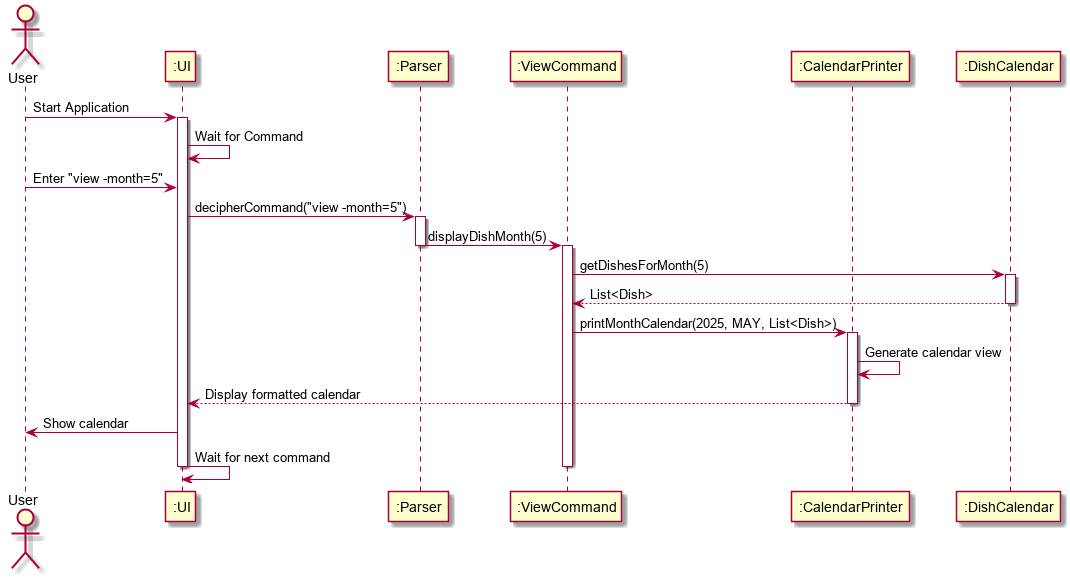
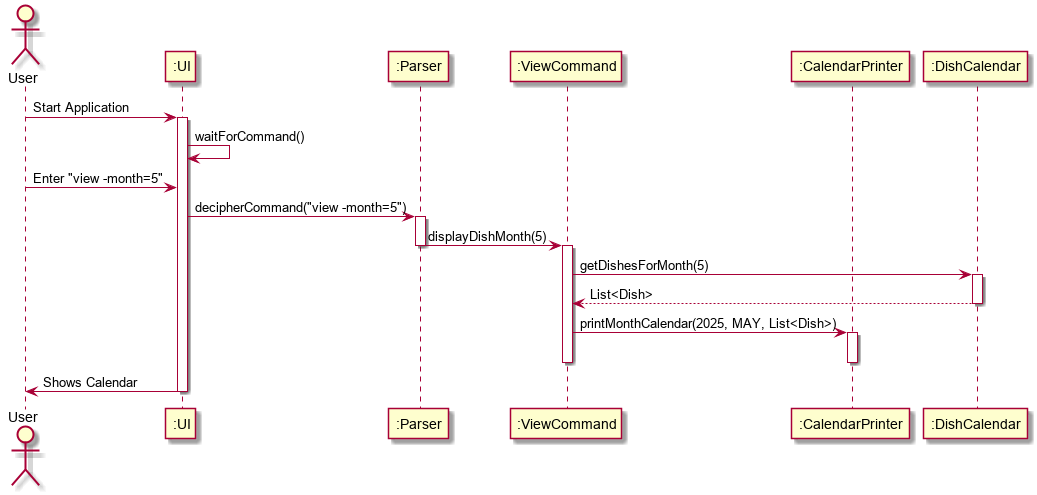
Adjusted sequenceView UML

diff --git a/docs/DeveloperGuide.md b/docs/DeveloperGuide.md
@@ -45,7 +45,7 @@ These classes facilitate user interaction by providing formatted output and hand
 Below is a Sequence Diagram of an example of how a User performs command view -month=5 to view his dishes for the month of May
 ![img.png](images/sequenceView.png)
 The class diagrams of UI and Calendar printer are seen below
-![img.png](images/classUI.png)
+
 #### <ins>Design Considerations</ins>
 
 We designed the UI package to provide clear and structured user interactions. Separating UI functions from logic ensures modularity, making it easier to maintain and update. The `Ui` class handles receiving commands and user interaction, while `CalendarPrinter` focuses on structured visual representation of scheduled dishes.
